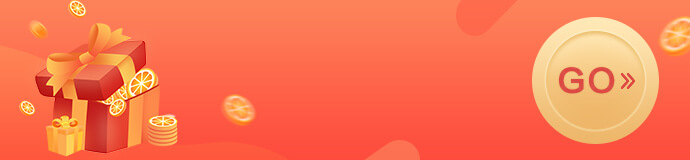
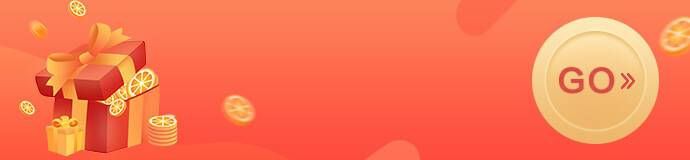
yasuo img

diff --git a/pages/jujiGarden/gardenIndex/index.js b/pages/jujiGarden/gardenIndex/index.js
@@ -210,7 +210,7 @@ Page({
         console.log('/pages/login/index?pagetype=7&sceneid=' + this.data.selfSceneId + '&invitecode=' + wx.getStorageSync('inviteCode'))
         return {
             title: '桔集：聚集优质好店，体验美好生活，加入成为会员吧！',
-            imageUrl: '/images/member_share.jpeg',
+            imageUrl: '/images/member_share.jpg',
             path: '/pages/login/index?pagetype=7&sceneid=' + this.data.selfSceneId + '&invitecode=' + wx.getStorageSync('inviteCode')
         }
     },

diff --git a/pages/user/index.js b/pages/user/index.js
@@ -88,7 +88,7 @@ Page({
         console.log(this.data.sceneId);
         return {
             title: '桔集：聚集优质好店，体验美好生活，加入成为会员吧！',
-            imageUrl: '/images/member_share.jpeg',
+            imageUrl: '/images/member_share.jpg',
             path: '/pages/login/index?pagetype=7&sceneid=' + this.data.sceneId + '&invitecode=' + wx.getStorageSync('inviteCode')
         }
     },
